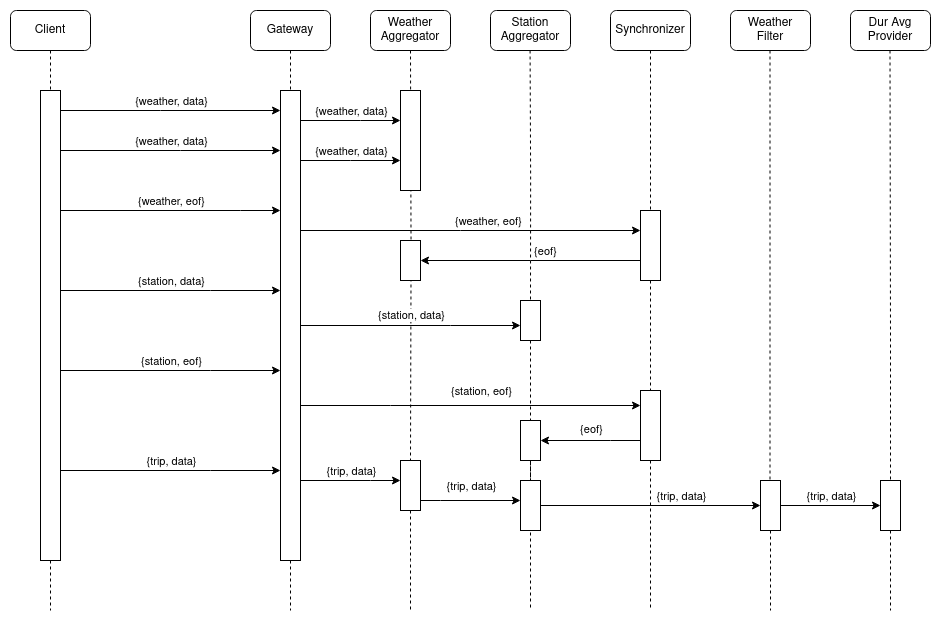
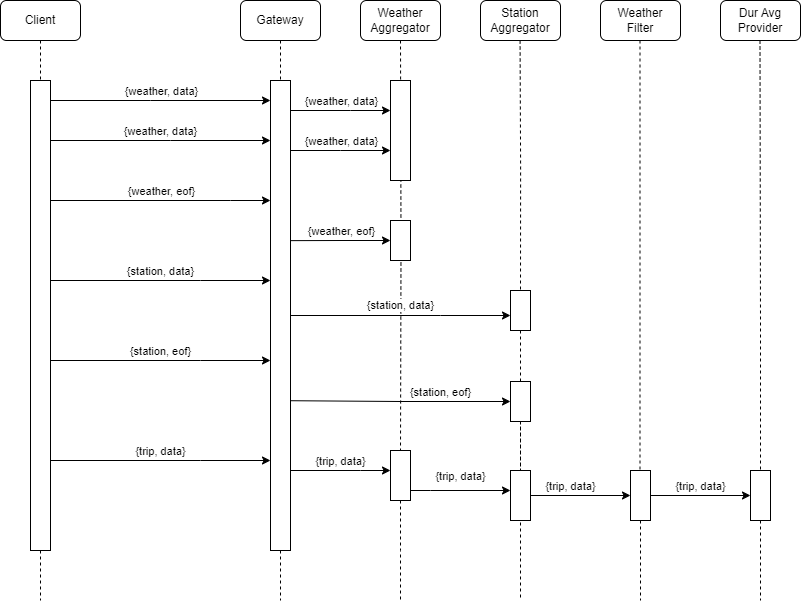
docs: sequence

diff --git a/README.md b/README.md
@@ -230,18 +230,8 @@ cada uno de los nodos del sistema. A modo de ejemplo, se enviaron solo dos mensa
 de clima, uno de estaciones y uno de viajes, junto con los EOFs correspondientes.
 En un caso real, se enviarían muchos más mensajes de tipo `data`.
 
-Los mensajes tipo EOF deben ser enviados al Synchronizer, para que los retenga hasta que todas las
-réplicas de un nodo hayan terminado de procesar los datos.
-
-![sequence_diagram_2](docs/sequence_2.png)
-
-Diagrama de secuencia de la obtención de los reportes por parte del cliente.
-
-Para obtener los resultados, el cliente le envía un mensaje al `Result Provider`.
-El `Result Provider`, al recibirlo, toma de la queue correspondiente un mensaje, que es
-reenviado inmediatamente al cliente.
-Si este mensaje es un EOF, el cliente sabe que ya recibió todos los resultados para un
-conjunto dado de (ciudad, reporte)
+Los mensajes tipo EOF deben ser enviados a todas las replicas del siguiente nodo,
+que los almacenaran hasta recibir de todas las replicas del nodo anterior.
 
 ### Vista de Desarrollo
 
